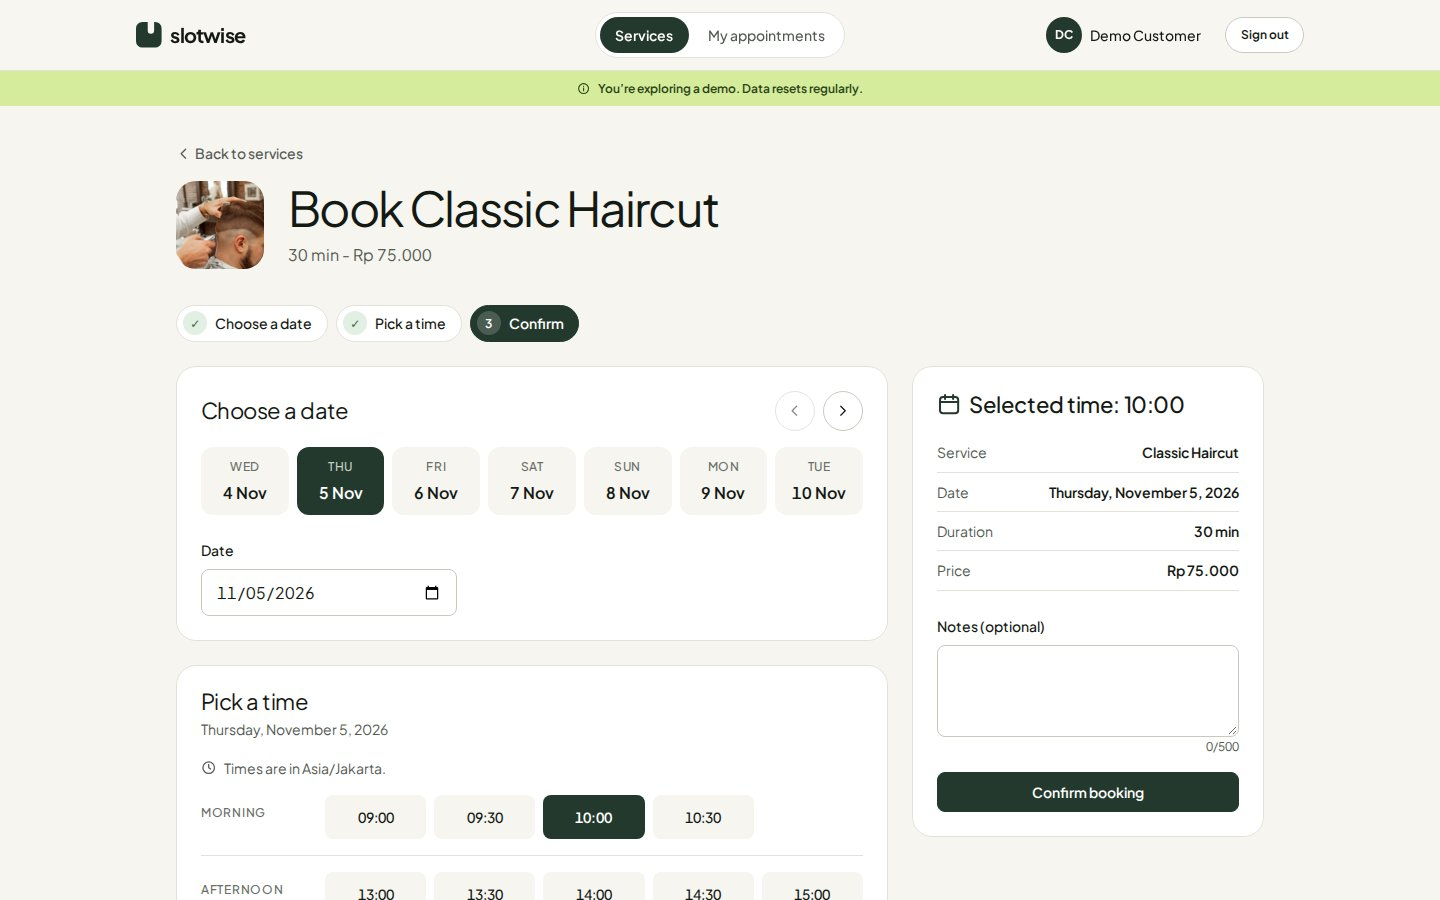
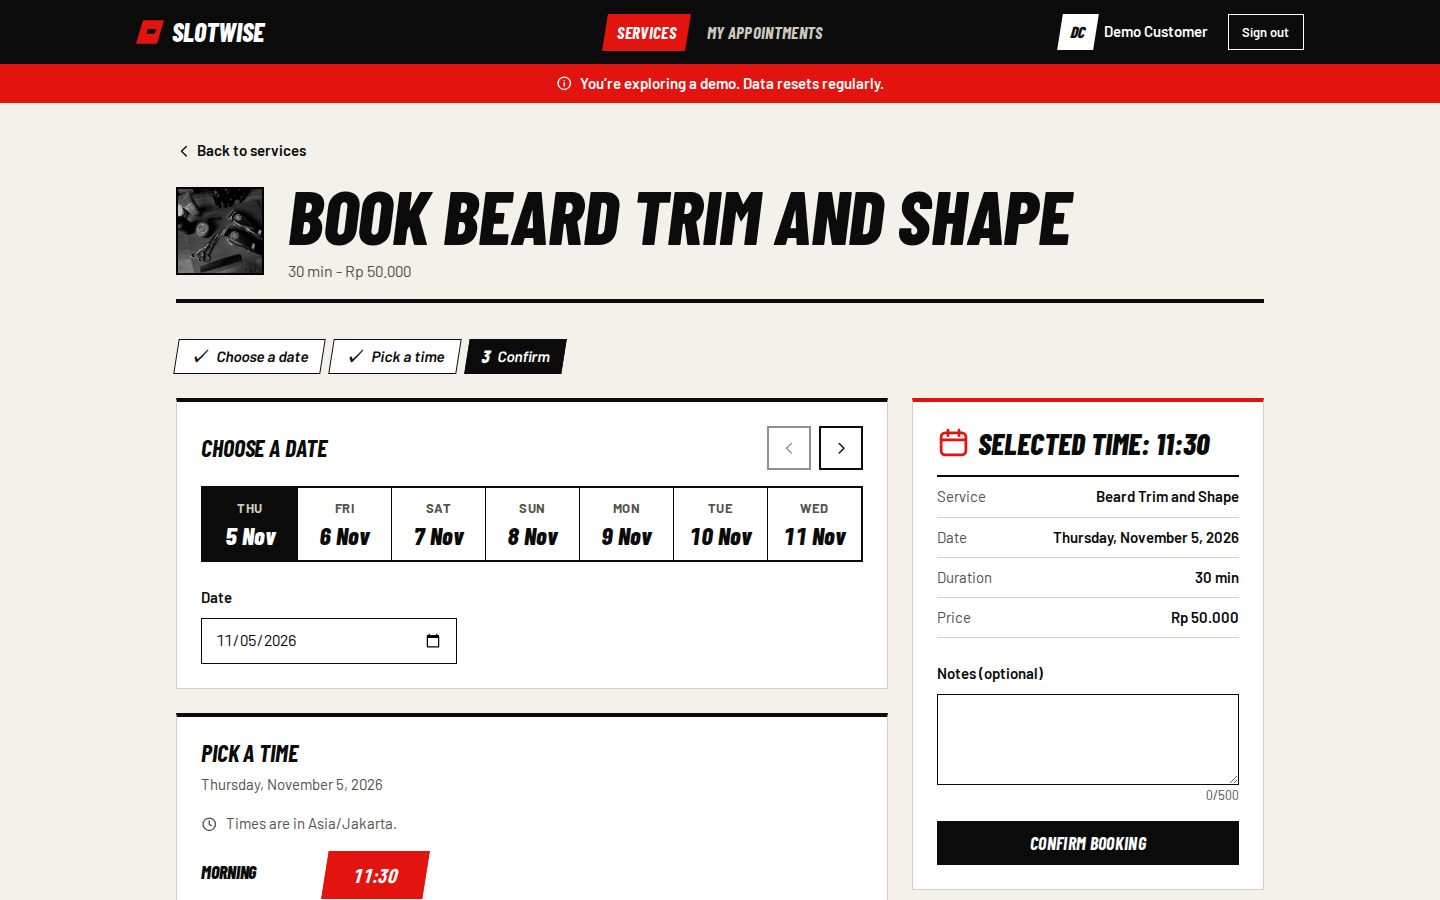
docs: rewrite README and DESIGN.md for the redesign

diff --git a/docs/DESIGN.md b/docs/DESIGN.md
@@ -1,124 +1,81 @@
-# Slotwise design system
+# Slotwise design system: "fade-night flyer"
 
-Slotwise is calm, photo-led and premium: real salon photography, light headlines, soft rounded surfaces and one deep forest green. The site is modelled on the **Velora wellness landing page** by Korsa (Dribbble, Popular → Web Design, November 2026). It's used as a design reference, not copied.
+Slotwise looks like a barbershop event flyer: scarlet fields, black cut-paper shards,
+newsprint, halftone dots, and huge condensed italic caps. The landing page is loud
+(it persuades); the app screens are calm and fast to scan (people operate them), with
+the brand carried by the type, the black rules and the scarlet "look here" colour.
 
-The tokens live in [`frontend/src/styles/tokens.css`](../frontend/src/styles/tokens.css). Components use tokens only and never raw hex values. The exception is inline SVG data URIs, which can't read CSS variables.
-
-## Principles
-
-1. **Lead with people.** The landing page opens on a full-bleed photo of a real salon moment. UI floats on the photo as glass cards, never boxed in beside it.
-2. **Light headlines, quiet UI.** Headlines are large and light (300–400). UI text is regular to semibold. Size and weight carry the hierarchy, not colour.
-3. **One accent.** Forest green marks the primary action, the current page and the selected item. Pale lime (`--highlight`) is a small spark for "open" times, the demo banner and hover on light-on-dark buttons. Use it sparingly.
-4. **Soft, not bubbly.** Cards are rounded at 20px, the hero and the bands at 28px, controls at 8–12px, chips at full pill. Separate with hairlines and white-on-off-white contrast. Shadows are only for things that genuinely float, such as the phone mockup.
-5. **Real words.** Specific copy about bookings: "Try the live demo", "Book 10:00", "Taken, try 10:30". No vague marketing lines, no emoji.
+Tokens live in [`frontend/src/styles/tokens.css`](../frontend/src/styles/tokens.css).
+Components use tokens only, never raw hex values (inline SVG data URIs excepted).
 
 ## Colour
 
-| Token | Value | Use |
-| --- | --- | --- |
-| `--paper` | `#f6f5f0` | Page background, warm off-white |
-| `--surface` | `#ffffff` | Cards, lists, inputs |
-| `--surface-2` | `#eeede6` | Skeletons, quiet fills |
-| `--rule` / `--rule-strong` | `#e3e2da` / `#cbc9bf` | Hairlines / input borders |
-| `--ink` | `#141914` | Text |
-| `--muted` / `--subtle` | `#555b54` / `#697068` | Secondary text / labels (AA on paper and white) |
-| `--accent` | `#24392d` | Forest green: primary buttons, current nav pill, selected day and time, bands |
-| `--accent-strong` | `#182820` | Hover, footer |
-| `--accent-tint` | `#e4ebe2` | Hover on time cells, booked status chip |
-| `--highlight` | `#d4ec9c` | Pale lime spark: open slots, demo banner, arrow tiles on dark |
-| `--glass`, `--glass-line`, `--glass-dark` | white 14% / white 32% / green-black 58% | Glass cards and the floating nav over photos |
-| Status | success `#2d6a43`, warning `#835000`, danger `#b4261e` on matching tints | Completed, no-show, cancelled |
+Three inks and one grey. Every text pair passes WCAG AA.
+
+| Token | Value | Job |
+|---|---|---|
+| `--scarlet` | `#e3140f` | Landing fields, the current nav tab, the selected time, the demo banner. White text on it is 4.8:1. Never black text on it. |
+| `--scarlet-deep` | `#b80d09` | Scarlet as text or a problem: cancel, remove, errors, no-show (6.0:1 on newsprint). |
+| `--scarlet-tint` | `#fbe4e1` | Error and no-show backgrounds. |
+| `--black` | `#0b0b0b` | Text, the app header, primary buttons, booked status, list rules. |
+| `--newsprint` | `#f4f1ea` | Page background. |
+| `--newsprint-2` | `#e8e3d7` | Skeletons, quiet fills, disabled fields. |
+| `--white` | `#ffffff` | Cards, lists, inputs. |
+| `--muted` / `--subtle` | `#55524b` / `#66625a` | Secondary text and labels. |
+| `--rule` | `#d6d0c2` | Hairlines between rows (decorative). |
+
+**State law:** each state keeps one look everywhere and always says its name ("Status: X"):
+booked is a solid black tag, completed and active are black outlines, cancelled and
+inactive are grey with a strike-through, and no-show is deep scarlet on a scarlet tint.
 
 ## Type
 
-**Plus Jakarta Sans** (variable 200–800, roman and italic, self-hosted WOFF2 under SIL OFL in `frontend/public/fonts`) is the only family. No request goes to a font CDN.
+- **Barlow Condensed** (600, 800, and 700/800 italic) for headlines, nav, buttons, times and prices: italic uppercase caps, line height 0.9–1.
+- **Barlow** (400, 500, 600, 700) for reading and UI text.
+- Both are self-hosted WOFF2 under SIL OFL in `frontend/public/fonts`. No font CDN is used.
+- Times, prices and dates use tabular figures.
+- Scale: `--fs-section` clamp(2.5–4.75rem) for page and section titles, and the hero title clamp(3.25–6rem).
 
-| Role | Weight | Notes |
-| --- | --- | --- |
-| Hero headline | 300 | `--fs-hero` clamp(2.5–4.75rem), tracking −0.045em, white on the photo |
-| Section headline (h1/h2) | 400 | `--fs-section` clamp(1.875–3rem), tracking −0.035em |
-| UI heading (h3), names | 500–600 | `--fs-lg`/`--fs-xl` |
-| Body | 400 | 16px, line height 1.6 |
-| Small labels (`.eyebrow`, filter legends, slot groups) | 500 | 12px uppercase, tracking 0.06–0.08em. Used sparingly in the app, not on landing sections |
+## Shape and space
 
-Times, prices and dates use tabular figures (`font-variant-numeric: tabular-nums`, `.num`), so columns line up without a separate mono font.
-
-## Space and layout
-
-- **Spacing scale:** `--s-1` 4px · `--s-2` 8 · `--s-3` 12 · `--s-4` 16 · `--s-5` 24 · `--s-6` 36 · `--s-7` 56 · `--s-8` 88.
-- **Width:** content max is 76rem. Gutters are 24px, or 16px at ≤560px.
-- **Inset frames:** the hero, the demo band and the footer are inset 12px from the viewport edge (8px on phones) and rounded.
-- **Breakpoints:**
-  - 1040px: the public nav links collapse.
-  - 960px: landing splits stack.
-  - 860px: the app nav wraps to its own row.
-  - 560px: phone layout.
-- **Touch targets:** at least 44px on phones.
+- Square corners everywhere (`--radius*` are 0). Separation comes from black rules: cards and lists have a 4px black top rule and hairline rows.
+- The signature angle is `--shear` (-9deg): status tags, the current nav tab, the selected time, steps and the avatar are sheared.
+- No soft shadows, no glass and no gradients as decoration. Depth comes from overlapping flat layers.
+- Spacing scale: `--s-1` 4px · 8 · 12 · 16 · 24 · 36 · 56 · `--s-8` 88.
+- Content max width is 76rem. Gutters are 24px, or 16px at 560px and below. Touch targets are at least 44px.
 
 ## Components
 
-- **Floating nav (public).** A fixed dark-glass pill 16px from the top: logo, Product, How it works, "Log in", and a white "Try the live demo" pill that signs straight into the demo and turns lime on hover.
-- **App header.** Off-white bar with a hairline. Nav links sit in a white pill track, and the current page is a filled green pill. The avatar is a green circle.
-- **Buttons.**
-  - `.btn--primary` is green with white text.
-  - An arrow icon inside a `.btn` sits on its own small rounded tile, which nudges right on hover.
-  - Default buttons are white with a `--rule-strong` border, and the border turns ink on hover.
-  - `.btn--quiet` is text only, with a tinted hover.
-  - On photos: a white primary (`.hero__cta`) and a glass ghost (`.hero__ghost`).
-- **Inputs.** White, 8px radius, 44px tall. Focus turns the border green and adds a 3px pale-green ring.
-- **Cards and lists.**
-  - `.card` is white with a hairline and a 20px radius.
-  - Lists (services, appointments, staff day-book, closures, admin services, business hours) are one white rounded panel with hairline rows, never a card per row.
-- **Status chips.** Pill, tinted background, a dot, and the text "Status: X" (kept for screen readers and tests).
-- **Booking.** Steps are numbered pills, and the current one is green. The day strip is seven rounded tiles with the chosen day green. Times are rounded cells grouped as Morning, Afternoon and Evening.
-- **Alerts and confirmations.** Tinted rounded boxes, with no border.
-- **Glass card.** `--glass` fill, `--glass-line` border, a 16–18px backdrop blur and a 20px radius. Used only on photos: Today's book on the hero, and the duration chip on service photos.
-- **Sign in / Create account.** The logo, one white card and one line under it, centred on paper with a faint green glow. No photo, no taglines, no legal links.
-- **Service cards (app).** A three-column grid (two on tablets, one on phones). Each card has a large rounded photo with a glass duration chip, the name and description, then the price and a green Book button with an arrow tile. Cards rise in one after another (CSS) and lift slightly on hover.
-- **Service avatars.** Wherever a service is named in a list (appointments, staff day-book, admin services), a small round photo sits beside it.
+- **App header:** a black bar with the white wordmark and scarlet mark. Nav links are condensed italic caps, and the current page is a sheared scarlet tab. A scarlet demo banner sits under it for the shared demo accounts.
+- **Buttons:** the default is white with a 2px black rule and inverts on hover. The primary is a black slab in condensed italic caps that turns scarlet on hover. Danger actions use deep-scarlet text and border.
+- **Inputs:** white with a 1.5px black rule. On focus a scarlet bar shows under the field, and focus rings are 3px.
+- **Services:** a wall of flyers. Each card has a 2px black frame, a greyscale photo that returns to colour on hover, a sheared black duration tag, the name in caps and the price as a big numeral.
+- **Booking:** the day strip is one ruled block with the chosen day in black. Times are ruled cells, and the picked time is sheared scarlet.
+- **Staff day-book:** the time is the loudest thing in each row (condensed italic, about 1.75rem), followed by client, service and status.
+- **Empty states:** a dashed black frame with a condensed italic title and one next step. **Loading** is a scarlet bar sweeping a black rule.
+- **Sign in / register:** one white sheet on a scarlet halftone field.
 
-## Landing page
+## Landing page (`/`)
 
-Keep it short: every section earns its place.
+1. **Hero:** an edge-to-edge scarlet field. On the left, "Fully booked. Never double-booked." with the second line on a sheared black strip, plus one line of copy. On the right, the slot wall: twelve torn black time cards.
+   - Desktop gets a 3D version (React Three Fiber). The cards fly in, 10:00 flips to BOOKED, a rival 10:00 card is smashed away with a TAKEN stamp, and 10:30 lights up as NEXT FREE. Clicking an open card replays the sequence on it.
+   - Phones, reduced motion, low-power devices and browsers without WebGL get the same board in HTML.
+2. **What Slotwise does:** three newsprint rows, each one claim beside the real UI: a working booking preview, the staff day-book, and a scarlet duotone photo for the owner's week.
+3. **Walk in. No sign-up:** a scarlet halftone band with three black role cards (Client, Staff, Owner) that sign straight into the demo.
+4. **Footer:** black.
 
-1. **Hero.** A rounded frame, 36–54rem tall, holding the salon interior photo with a centred dark scrim. On it:
-   - the centred light headline, revealed word by word and sized by window height as well as width;
-   - one line of copy;
-   - the glass "Today's book" card rising out of the bottom edge, with its lower half clipped.
-   - No buttons: "Try the live demo" lives in the nav. The photo settles from a slow zoom and drifts with scroll; the card drifts the other way.
-2. **For clients.** A portrait (revealed with a clip-path wipe) beside the statement, the lead and the working booking preview.
-3. **The product.** "One book, read three ways." A photo with a parallax drift and a frosted stat card sits beside numbered role rows.
-4. **A day at the shop.** Sticky phone on a green photo-tinted stage. All three screens stay mounted and crossfade.
-5. **Live demo.** An inset forest-green band that scales in, with one line of copy and three role buttons (client, staff, owner) that arrive one by one, beside a salon photo.
-6. **Footer.** An inset deep-green rounded block.
-
-Not used, by design: `// LABEL` eyebrows and `[ 02 ]` indexes on landing sections, a trust/feature list, an FAQ, and typed demo credentials. The demo buttons sign in directly.
-
-The floating nav carries only Product, How it works, Log in and **Try the live demo** (also direct).
-
-## Imagery
-
-- Real salon and barbershop photos from Pexels (free for commercial use, no attribution required), self-hosted as WebP under `frontend/public/images`. The service photos are from Unsplash.
-- Photos are cropped with `object-fit: cover` and rounded to the container radius.
-- Every content photo has descriptive alt text. Decorative copies (service avatars and card photos next to the service name) use `alt=""`.
-- The phone screenshots in `public/images/product` are generated from the app, so regenerate them after UI changes.
+Not used, by design: labels above headings, section numbers, metric rows, fake reviews or
+"trusted by" numbers, and code or tech-stack sections on the landing page.
 
 ## Motion
 
-- `motion` runs on the public pages only. The hero copy rises and un-blurs in sequence, the glass card follows, and sections reveal once on scroll.
-- App screens use CSS transitions of 180ms on colour only.
+- The hero lines slam in from the left in sequence. Section headings get a strip of scarlet (or black) tape pulled under them. Feature rows rise and straighten as they enter. Demo cards land one by one.
+- Content is never hidden by an animation: text stays readable at every frame.
+- The 3D canvas is lazy-loaded after first paint, caps the device pixel ratio at 1.75, and stops rendering when off-screen.
+- App screens use 160ms colour and transform transitions, and service cards rise in on load.
 - `prefers-reduced-motion` turns all of it off, through `MotionConfig reducedMotion="user"` and a global CSS override.
 
-## Don'ts
+## Imagery
 
-- No purple or blue gradients, no neon, no glassmorphism on plain backgrounds (glass only over photos).
-- No Inter, and no second display font.
-- No card-per-row lists, no drop shadows on cards.
-- No fabricated proof such as review counts or "trusted by" numbers. Use real facts only.
-- No filler: no section labels like "// HOW IT WORKS", no repeated CTAs in the same bar.
-
-## How this system was chosen
-
-- The direction was picked by the owner from today's Dribbble Popular web-design shots, shortlisted for appointment-based service businesses: Velora, BOOP, Court Crew and ARVÉN.
-- The **ui-ux-pro-max** guidance still applies: AA contrast, 44px targets, tabular data, reduced motion and a single accent.
-- Earlier passes (maroon editorial; Instrument Serif with Geist; a 21st.dev image-fan hero) were replaced at the owner's request.
+- Real salon and barbershop photos (Pexels and Unsplash, free licence), self-hosted as WebP. They are printed in greyscale or as a scarlet duotone so they support the page instead of leading it.
+- Content photos have descriptive alt text. The 3D card textures are drawn in code at runtime, with no image files.

diff --git a/README.md b/README.md
@@ -1,88 +1,91 @@
 <div align="center">
 
-<img src="docs/logo.svg" width="72" height="72" alt="Slotwise logo">
+<img src="docs/logo.svg" width="64" height="64" alt="Slotwise logo">
 
 # Slotwise
 
-**Appointment booking for barbershops, salons and studios.**<br>
+**Online booking for barbershops, salons and studios.**<br>
 Fully booked. Never double-booked.
 
-<br>
+[**Live demo**](https://slotwise-mocha.vercel.app) · [Report an issue](https://github.com/hal-imaxabdi/slotwise/issues)
 
-![React](https://img.shields.io/badge/React-20232A?style=for-the-badge&logo=react&logoColor=61DAFB)
-![TypeScript](https://img.shields.io/badge/TypeScript-3178C6?style=for-the-badge&logo=typescript&logoColor=white)
-![Vite](https://img.shields.io/badge/Vite-646CFF?style=for-the-badge&logo=vite&logoColor=white)
-![Python](https://img.shields.io/badge/Python-3776AB?style=for-the-badge&logo=python&logoColor=white)
-![FastAPI](https://img.shields.io/badge/FastAPI-009688?style=for-the-badge&logo=fastapi&logoColor=white)
-![PostgreSQL](https://img.shields.io/badge/PostgreSQL-4169E1?style=for-the-badge&logo=postgresql&logoColor=white)
-![Vercel](https://img.shields.io/badge/Vercel-000000?style=for-the-badge&logo=vercel&logoColor=white)
+![React](https://img.shields.io/badge/React_19-0b0b0b?style=flat-square&logo=react&logoColor=61DAFB)
+![TypeScript](https://img.shields.io/badge/TypeScript-0b0b0b?style=flat-square&logo=typescript&logoColor=3178C6)
+![three.js](https://img.shields.io/badge/three.js_+_R3F-0b0b0b?style=flat-square&logo=threedotjs&logoColor=white)
+![FastAPI](https://img.shields.io/badge/FastAPI-0b0b0b?style=flat-square&logo=fastapi&logoColor=009688)
+![PostgreSQL](https://img.shields.io/badge/PostgreSQL-0b0b0b?style=flat-square&logo=postgresql&logoColor=4169E1)
 
-<br>
-
-[![Live demo](https://img.shields.io/badge/Live_demo-24392D?style=for-the-badge)](https://slotwise-mocha.vercel.app)
-
-<br><br>
-
-<img src="docs/images/landing.jpg" alt="Slotwise landing page" width="900">
+<!-- Screenshot: landing page hero, 1440 wide (docs/images/landing.jpg) -->
+<img src="docs/images/landing.jpg" alt="The Slotwise landing page" width="900">
 
 </div>
 
-<br>
+## What it is
 
-## Overview
-
-Slotwise is a full-stack booking platform for small appointment-based businesses. Clients book
-from their phone in under a minute, and the whole team works from one shared calendar. Every
-booking is checked by the database itself, so two clients can never be given the same time slot.
+Slotwise is booking software for small shops that work by appointment. Clients book a time
+that is genuinely free from their phone, the team works from one shared day, and no two
+clients are ever given the same slot, even when they press Book at the same moment.
 
 ## Live demo
 
-**Try the live demo** to sign in instantly; no account is needed.
+The [live demo](https://slotwise-mocha.vercel.app) is a fictional Jakarta barbershop with a
+full week of bookings. One click signs you in; no account is needed.
+
+| Role | What you can try |
+|---|---|
+| **Client** | Browse services with prices and lengths, book a free time, move or cancel it up to 24 hours before. |
+| **Staff** | The day-book by date and status, walk-ins booked on a client's behalf, visits marked done or no-show, closures for training. |
+| **Owner** | Everything staff can do, plus adding, pricing and pausing services and setting the weekly opening hours. |
+
+> [!NOTE]
+> Demo data resets regularly. The server sleeps when idle, so the first visit can take up to a minute to wake it.
+
 <table>
   <tr>
+    <!-- Screenshots: services, booking and staff screens, 1440 wide (docs/images/*.jpg) -->
     <td width="33%"><img src="docs/images/services.jpg" alt="Services"><br><sub><b>Services</b></sub></td>
     <td width="33%"><img src="docs/images/booking.jpg" alt="Booking a time"><br><sub><b>Booking</b></sub></td>
-    <td width="33%"><img src="docs/images/staff.jpg" alt="Staff appointments"><br><sub><b>Staff view</b></sub></td>
+    <td width="33%"><img src="docs/images/staff.jpg" alt="The staff day-book"><br><sub><b>Staff day-book</b></sub></td>
   </tr>
 </table>
 
-> [!NOTE]
-> Demo data resets regularly. The server sleeps when idle, so the first request may take up to a minute.
+## Features
 
-## Key features
+- **No double bookings.** Overlapping appointments are rejected by PostgreSQL itself, so the guarantee holds under simultaneous requests.
+- **Only real availability.** Free times come from opening hours, lunch breaks, closures and existing bookings.
+- **Self-service for clients.** Book, reschedule or cancel online, and delete the account at any time.
+- **Built for the counter.** Staff see the whole day at a glance and handle walk-ins and visit outcomes in a click.
+- **Owner controls.** Services, prices and weekly hours change without disturbing bookings already made.
+- **Secure by default.** Server-side sessions, CSRF tokens, origin checks, login throttling and argon2 password hashing.
+- **Accessible.** Keyboard support, visible focus, WCAG AA contrast and reduced-motion handling.
 
-- **Conflict-free scheduling.** Overlapping bookings are rejected at the database level, even under simultaneous requests.
-- **Live availability.** Only genuinely free slots are offered, based on opening hours, closures and existing bookings.
-- **Self-service for clients.** Bookings can be rescheduled or cancelled online up to 24 hours in advance.
-- **Tools for the team.** Staff handle walk-ins and visit outcomes; owners manage services, pricing and hours without disrupting existing bookings.
-- **Secure by default.** Server-side sessions, hashed passwords, CSRF protection and login throttling. Clients can delete their account at any time.
-- **Responsive and accessible.** Built mobile-first, with keyboard support and reduced-motion handling.
+## Tech stack
 
-## Getting started
-
-**Prerequisites:** Python 3.12, Node.js 20.19+ and Docker. Copy `.env.example` to `.env` and set the
-database credentials.
-
-```bash
-docker compose up -d db
-
-# API (backend/)
-pip install -r requirements.txt
-alembic upgrade head
-DEMO_MODE=true python -m scripts.reset_demo
-DEMO_MODE=true uvicorn app.main:app --reload
-
-# Web app (frontend/)
-npm install
-npm run dev
-```
+| Layer | Tools |
+|---|---|
+| Frontend | React 19, TypeScript, Vite, React Router, Motion, three.js with React Three Fiber, plain CSS with design tokens |
+| Backend | FastAPI, SQLAlchemy, Alembic, PostgreSQL |
+| Testing | pytest, Vitest, Testing Library |
+| Hosting | Vercel (frontend), Render (API and database) |
 
 ## Project structure
 
 ```
-backend/    FastAPI application, database migrations and tests
-frontend/   React web application and tests
+backend/    API, database migrations, seed and demo scripts, tests
+frontend/   Web app, landing page and tests
 docs/       Design system, data model and operations notes
 ```
 
+## Running locally
 
+Requires Python 3.12, Node.js 20.19+ and Docker. Copy `.env.example` to `.env` first.
+
+```bash
+docker compose up -d db
+cd backend && pip install -r requirements.txt && alembic upgrade head
+DEMO_MODE=true python -m scripts.reset_demo && DEMO_MODE=true uvicorn app.main:app --reload
+cd frontend && npm install && npm run dev
+```
+
+Deployment settings and the demo reset are described in [docs/operations.md](docs/operations.md),
+and the visual system in [docs/DESIGN.md](docs/DESIGN.md).
